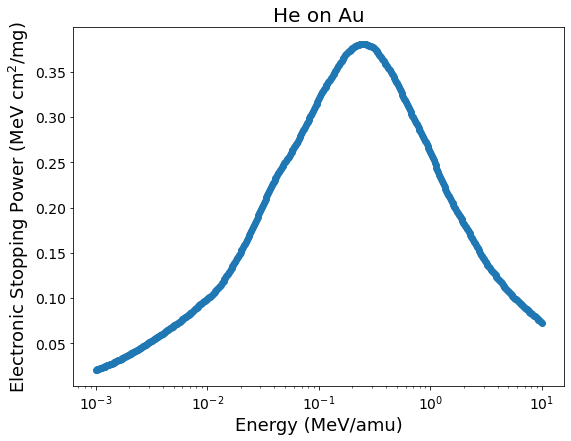
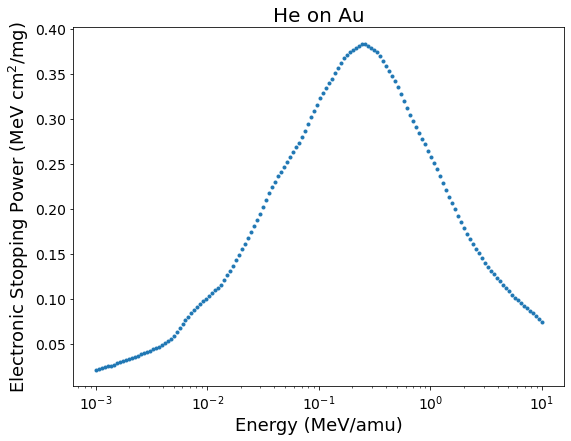
update readme

diff --git a/README.md b/README.md
@@ -91,7 +91,7 @@ The energy grid used for the ESPNN calculation can be customized with arguments
 
 - ``emin``: Minimum energy value in MeV/amu units (default: ``0.001``)
 - ``emax``: Maximum energy value in MeV/amu units (default: ``10``)
-- ``npoints``: Number of grid points (default: ``500``)
+- ``npoints``: Number of grid points (default: ``150``)
 
 Furthermore, the figure plotting and output-file directory-path can be modified via
 
@@ -99,7 +99,7 @@ Furthermore, the figure plotting and output-file directory-path can be modified 
 - ``outdir``: Path to output folder (default: ``"./"``)
 
 ```python
-ESPNN.run_NN(projectile='H', target='He', emin=0.002, emax=2, npoints=100)
+ESPNN.run_NN(projectile='H', target='Ta', emin=0.0001, emax=100, npoints=200)
 ```
 
 ![](https://github.com/ale-mendez/ESPNN/blob/master/docs/prediction_files/prediction_4_0.png?raw=true)
